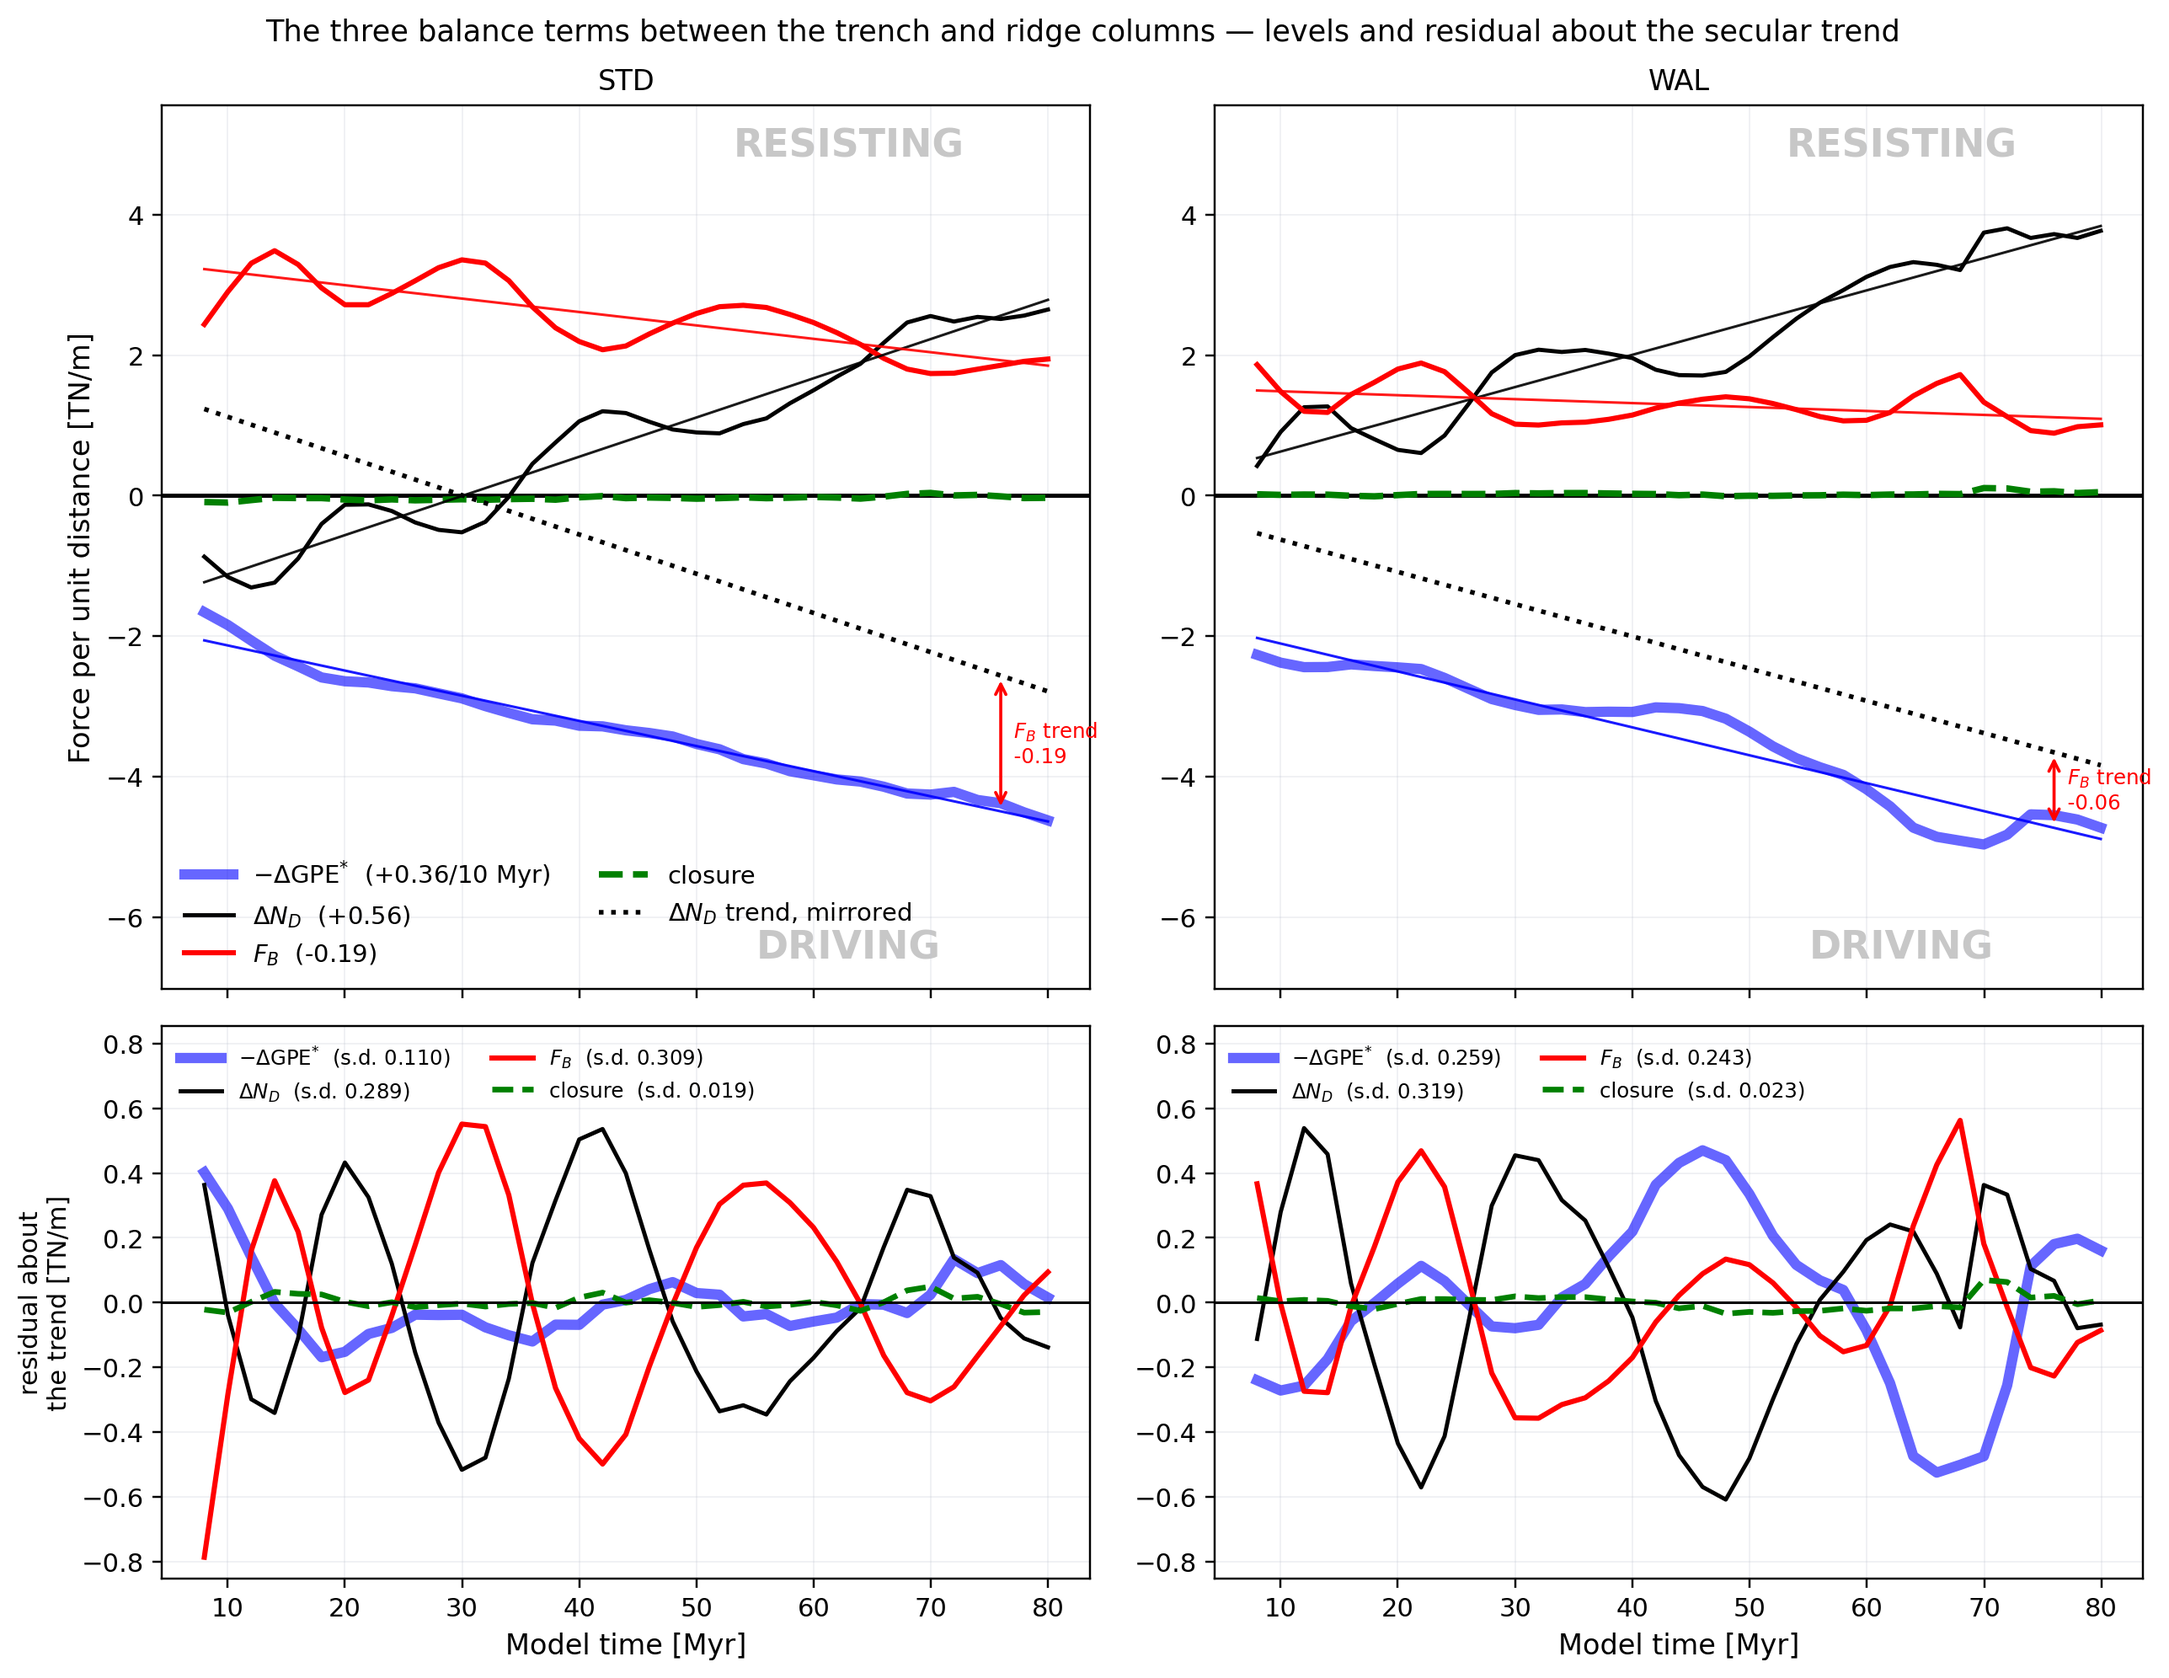
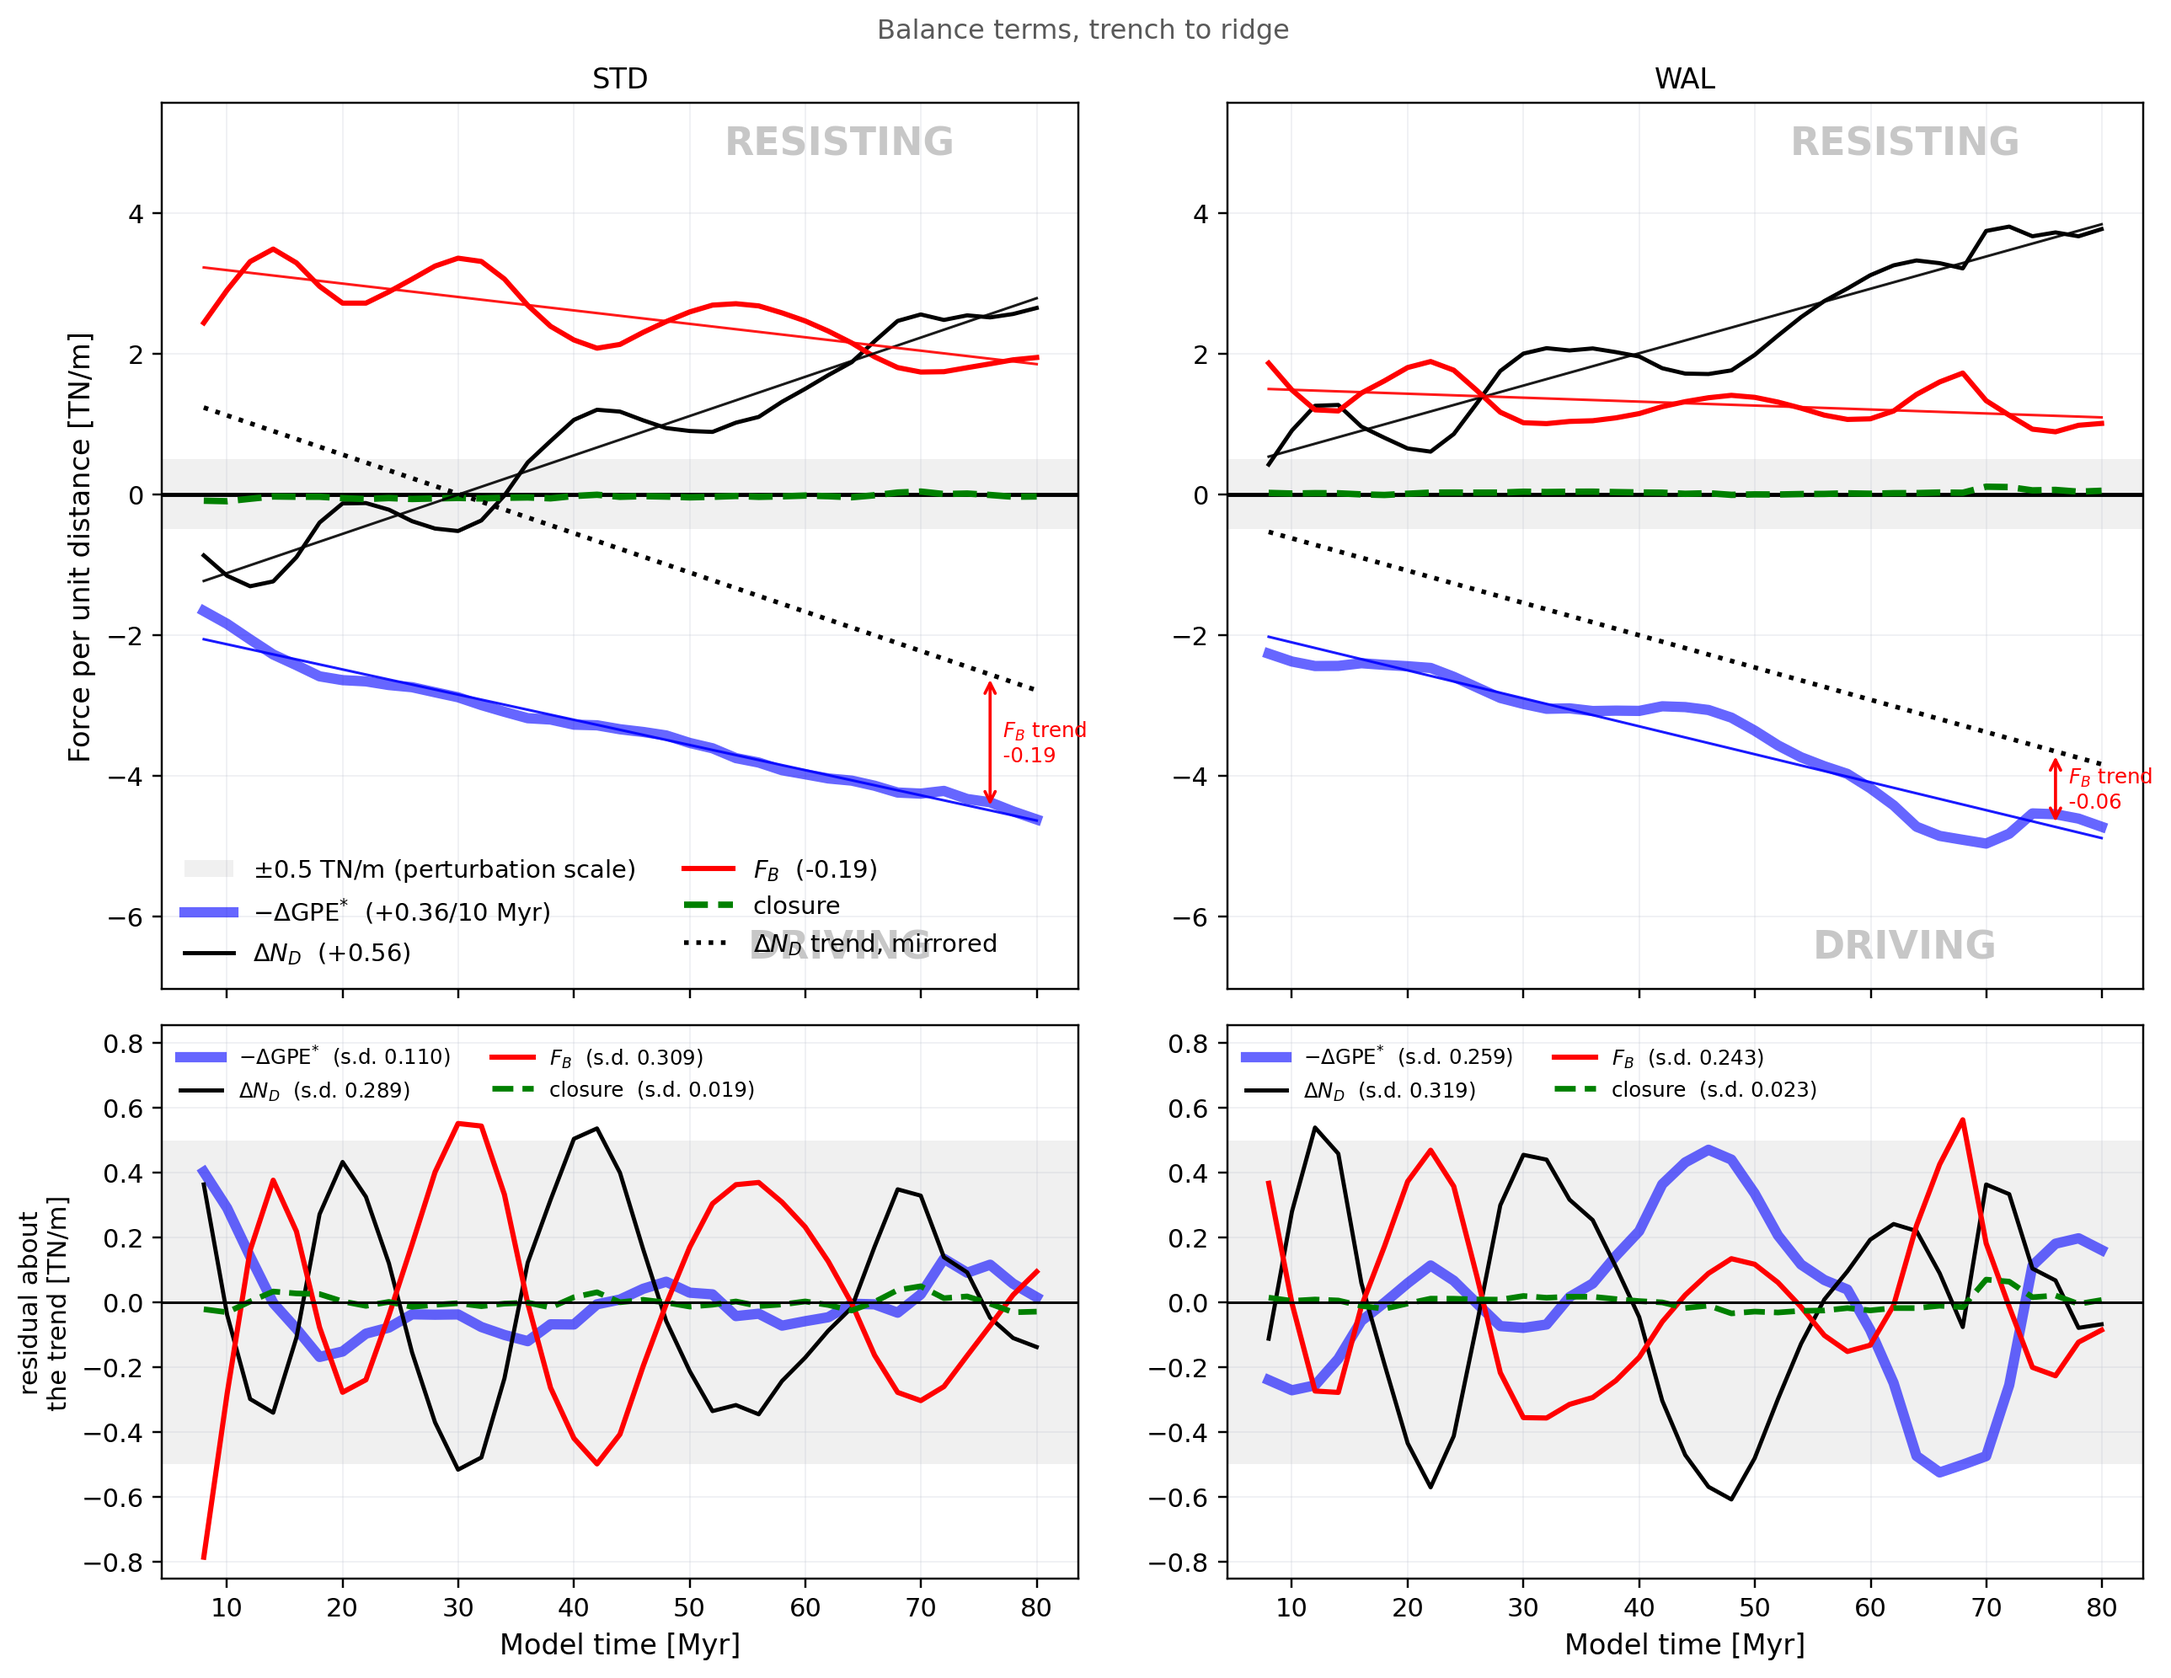
fig_budget_time_detrended: +/-0.5 TN/m perturbation band on both rows; quieter title
Dan, 2026-09-24. A very light band spanning +/-0.5 TN/m about zero across
all times, on both rows. On the residual row it is the envelope of the
perturbations; on the levels row it acts as a scale bar, showing directly
how small the perturbations are against the ~4 TN/m carried by the
driving term. Suptitle reduced to a plain descriptive line.

diff --git a/scripts/fig_budget_time_detrended.py b/scripts/fig_budget_time_detrended.py
@@ -82,6 +82,12 @@ from tables_io import write_table
 
 ROOT = os.path.dirname(os.path.dirname(os.path.abspath(__file__)))
 C_RULE = '#BFC3D1'
+# Very light band spanning +/- PERT_TNM about zero, drawn across all times
+# on BOTH rows (Dan, 2026-09-24). On the residual row it is the envelope of
+# the perturbations; on the levels row it is a scale bar -- it shows at a
+# glance how small the perturbations are against the ~4 TN/m carried by the
+# driving term, which no amount of caption wording conveys as directly.
+PERT_TNM = 0.5
 
 
 def main():
@@ -103,6 +109,9 @@ def main():
 
         # ---------------- top: levels, as in fig_budget_time -------------
         a0 = axes[0, col]
+        a0.axhspan(-PERT_TNM, PERT_TNM, color='0.55', alpha=0.13, lw=0,
+                   zorder=0,
+                   label=f'$\\pm${PERT_TNM:.1f} TN/m (perturbation scale)')
         a0.axhline(0, color='k', lw=1.6)
         a0.plot(t, -gpe, color='b', lw=4, alpha=0.6,
                 label=r'$-\Delta\mathrm{GPE}^{*}$' + f'  ({sl(gpe):+.2f}/10 Myr)')
@@ -126,6 +135,8 @@ def main():
 
         # ---------------- bottom: the same lines, detrended ---------------
         a1 = axes[1, col]
+        a1.axhspan(-PERT_TNM, PERT_TNM, color='0.55', alpha=0.13, lw=0,
+                   zorder=0)
         res = {r'$-\Delta\mathrm{GPE}^{*}$': (ld(t, -gpe), 'b', 4, '-', 0.6),
                r'$\Delta N_D$': (ld(t, nd), 'k', 1.6, '-', 1.0),
                '$F_B$': (ld(t, fb), 'red', 2.0, '-', 1.0),
@@ -174,8 +185,9 @@ def main():
                             ('DRIVING', 0.025, 'bottom')):
             ax.text(0.74, dy, lab, transform=ax.transAxes, ha='center', va=va,
                     fontsize=15, fontweight='bold', color='0.78', zorder=0)
-    fig.suptitle('The three balance terms between the trench and ridge columns — '
-                 'levels and residual about the secular trend', fontsize=11.5)
+    # Plain, descriptive title (Dan, 2026-09-24) — the figure argues for
+    # itself; the suptitle should only say what is plotted.
+    fig.suptitle('Balance terms, trench to ridge', fontsize=10.5, color='0.35')
     fig.tight_layout()
     out = os.path.join(ROOT, 'figures', 'fig_budget_time_detrended.png')
     fig.savefig(out, bbox_inches='tight', dpi=220)
